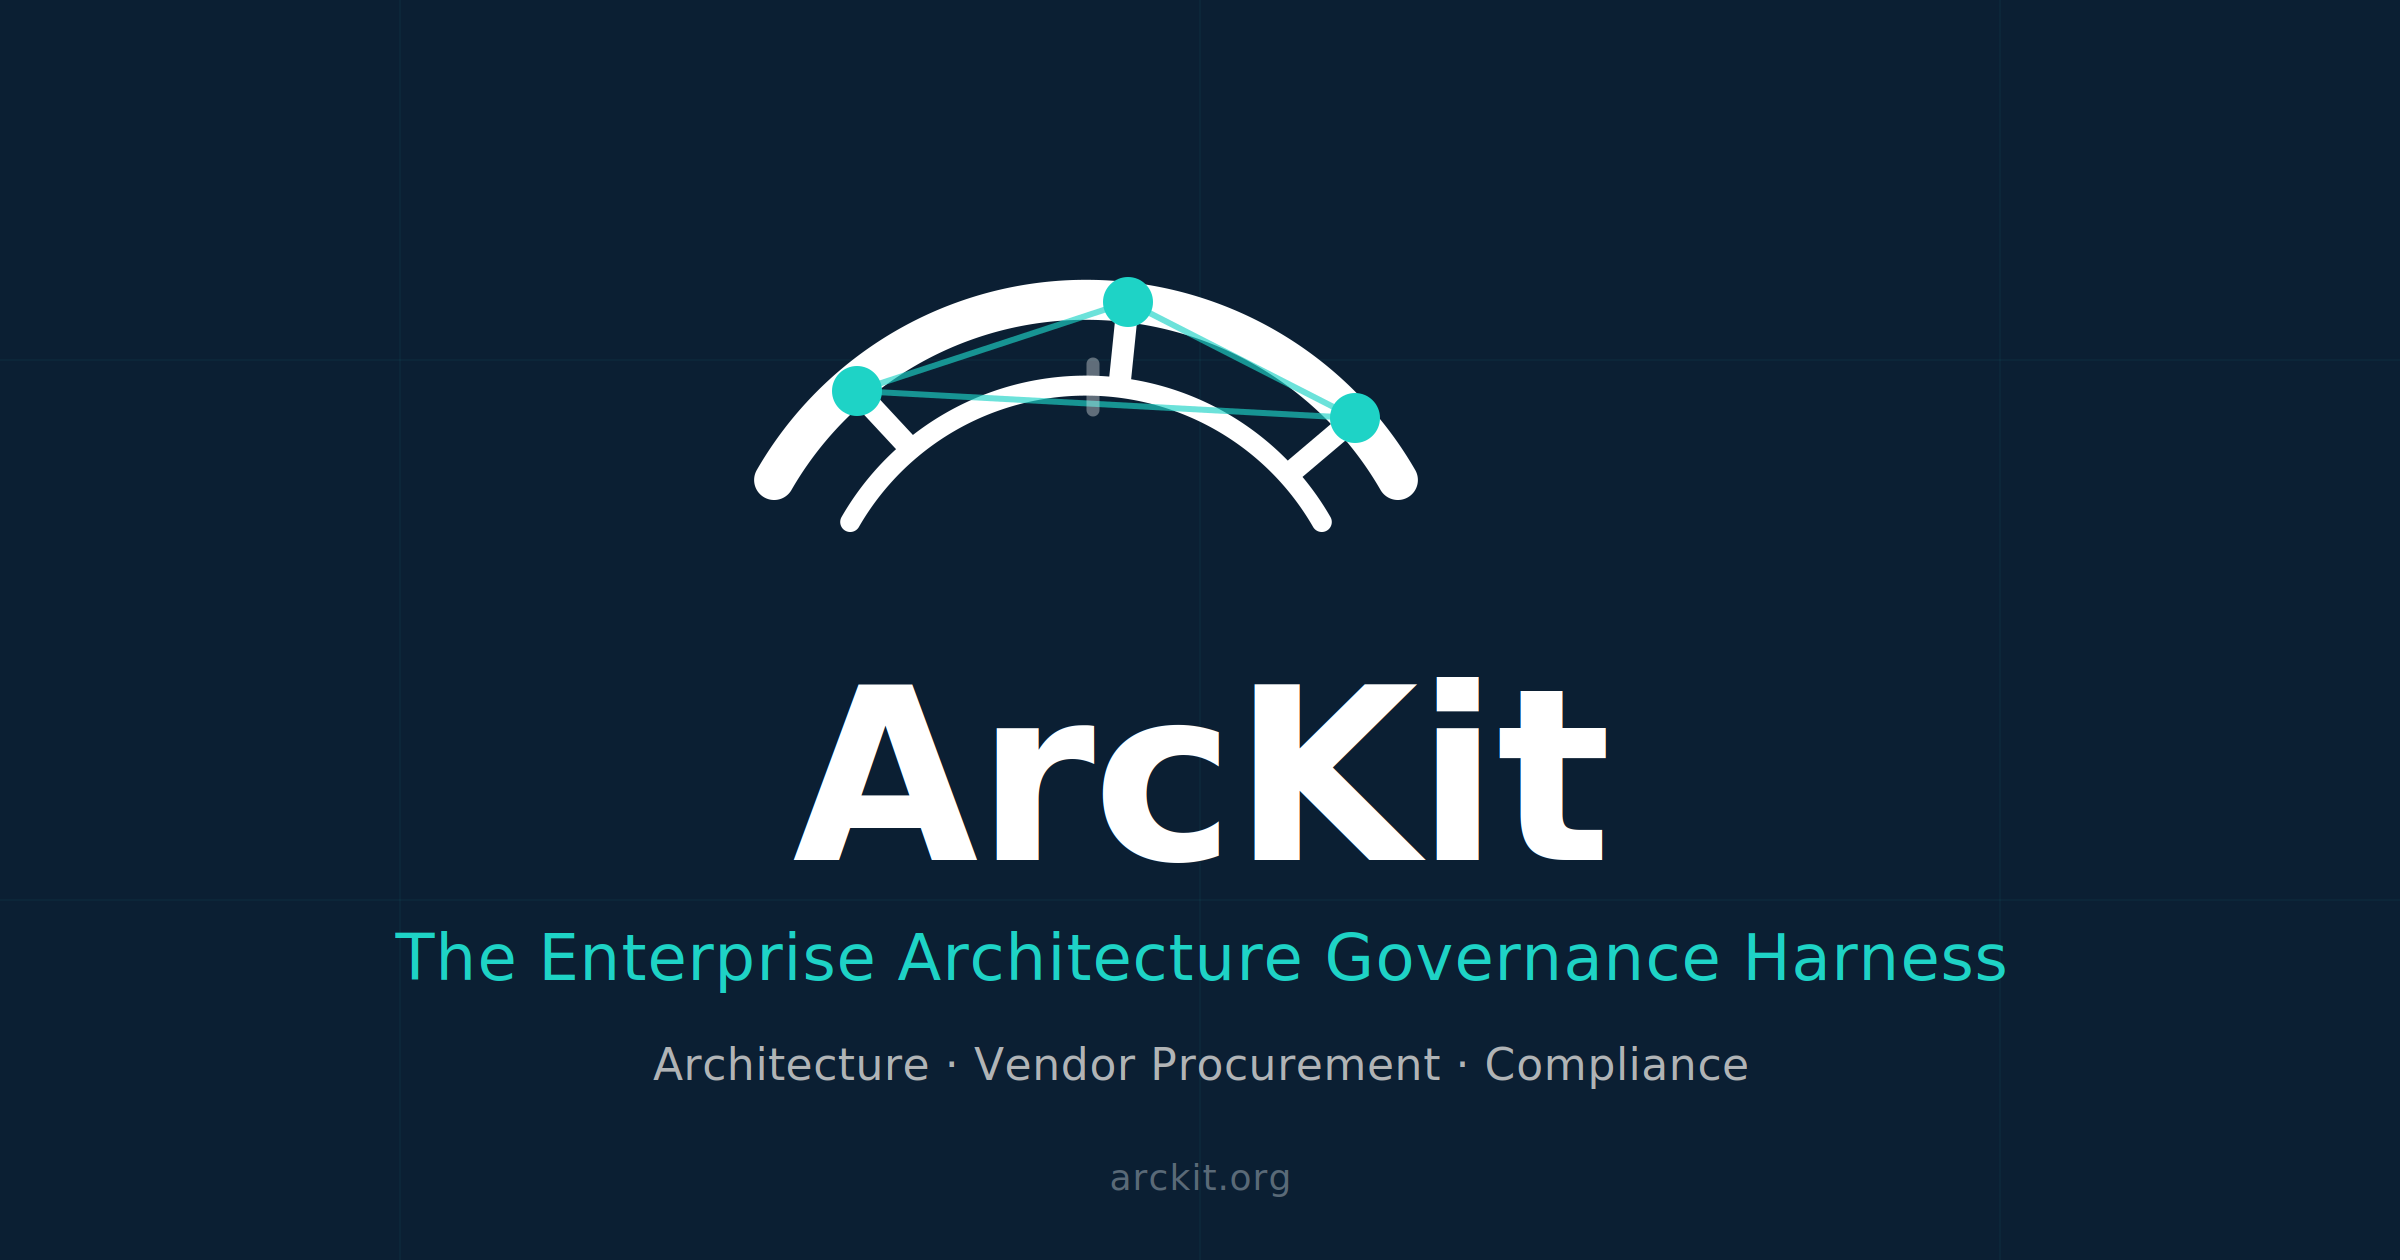
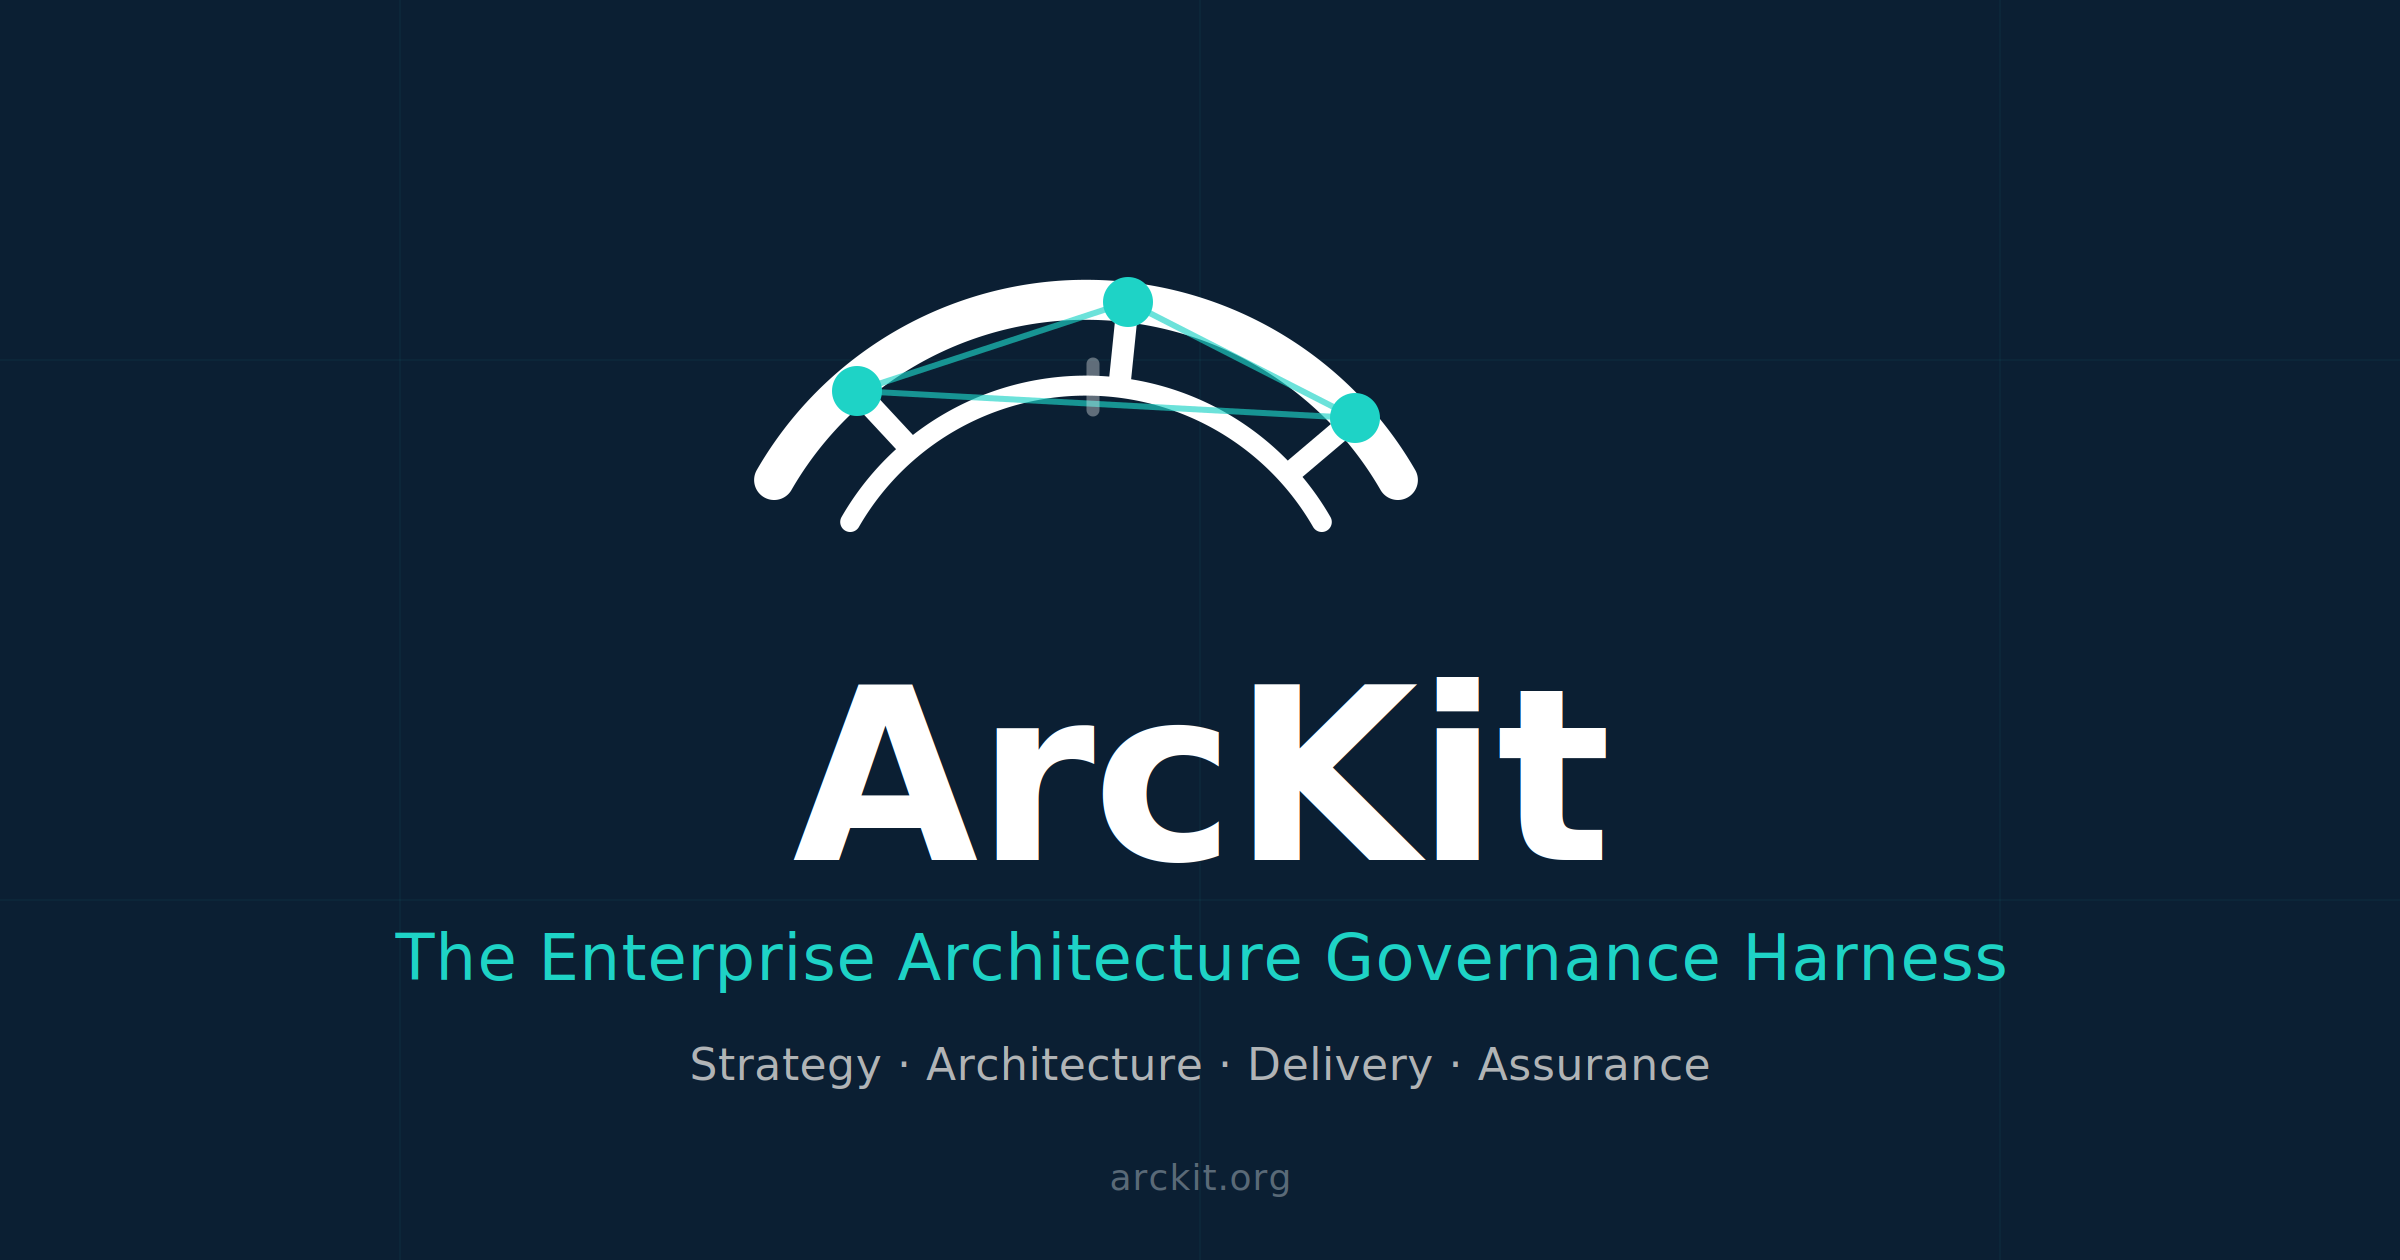
brand: shift category positioning to "Strategy · Architecture · Delivery · Assurance"
Replace the legacy "architecture, vendor procurement, and compliance"
category trio with the four-bucket positioning that better reflects the
71-command surface (see PR thread for analysis):

  - Strategy: principles, stakeholders, sobc, risk, roadmap, strategy,
    story, framework, glossary
  - Architecture: adr, diagram, dfd, hld/dld-review, wardley × 5,
    platform-design, data-model, backlog, servicenow
  - Delivery: devops, mlops, finops, operationalize, pages, presentation
  - Assurance: analyze, conformance, traceability, navigator, health,
    principles-compliance, tcop, secure, mod-secure, ai-playbook, atrs,
    jsp-936, dpia, service-assessment, graph-report, maturity-model

Procurement (sow, dos, evaluate, score, gcloud-*) is preserved as
functional content — the SOW command, plan-template Gantt phases,
procurement guide, and use-case index entry — but no longer leads the
positioning since it covers only ~6 commands.

Updated brand surfaces (28 files):

- Plugin/extension manifests: plugin.json, marketplace.json,
  gemini-extension.json, paperclip package.json + manifest.ts
- READMEs + headlines: root, arckit-claude, arckit-gemini (README + GEMINI.md),
  arckit-copilot, docs, CLAUDE.md
- Start guides: 6 copies (docs/, arckit-claude/, arckit-codex/,
  arckit-copilot/, arckit-opencode/, arckit-paperclip/)
- Web descriptions: docs/index.html (meta keywords, JSON-LD body,
  HowTo step), docs/llms.txt (headline only — workflow-coverage
[…]

Changed region(s): [[0.2812, 0.8357, 0.75, 0.8667]]

diff --git a/docs/index.html b/docs/index.html
@@ -5,7 +5,7 @@
     <script>(function(){var t=localStorage.getItem('arckit-theme');if(t==='dark')document.documentElement.classList.add('dark-mode');else if(t==='light')document.documentElement.classList.add('light-mode');else if(window.matchMedia&&window.matchMedia('(prefers-color-scheme: dark)').matches)document.documentElement.classList.add('dark-mode')})();</script>
     <meta name="viewport" content="width=device-width, initial-scale=1, viewport-fit=cover">
     <meta name="description" content="ArcKit - The Enterprise Architecture Governance Harness. AI-assisted commands covering a UK Government baseline plus community-contributed jurisdictional overlays (EU, France, Austria, Canada, UAE, Australia, USA).">
-    <meta name="keywords" content="enterprise architecture, UK government, EU, France, Austria, Canada, UAE, Australia, GDS, GDPR, AI Act, NIS2, ANSSI, PDPL, DISP, Essential Eight, architecture governance, vendor procurement, ArcKit, compliance, TCOP, secure by design">
+    <meta name="keywords" content="enterprise architecture, UK government, EU, France, Austria, Canada, UAE, Australia, GDS, GDPR, AI Act, NIS2, ANSSI, PDPL, DISP, Essential Eight, architecture governance, strategy, delivery, assurance, compliance, ArcKit, TCOP, secure by design">
     <meta name="author" content="ArcKit">
     <meta property="og:title" content="ArcKit - The Enterprise Architecture Governance Harness">
     <meta property="og:description" content="AI-assisted commands for systematic, compliant architecture governance — UK Government baseline plus community-contributed jurisdictional overlays (EU, France, Austria, Canada, UAE, Australia, USA).">
@@ -381,7 +381,7 @@
                 "applicationCategory": "DeveloperApplication",
                 "applicationSubCategory": "Enterprise Architecture Governance",
                 "operatingSystem": "macOS, Linux, Windows",
-                "description": "ArcKit is an open-source enterprise architecture governance harness covering architecture, vendor procurement, and compliance distributed as a plugin or extension for AI coding assistants — Claude Code, Gemini CLI, GitHub Copilot, OpenAI Codex CLI, and OpenCode CLI. It provides slash commands across an official UK Government baseline plus community-contributed jurisdictional overlays (EU, France, Austria, Canada, UAE, Australia, USA) that generate architecture artefacts using versioned templates with full traceability.",
+                "description": "ArcKit is The Enterprise Architecture Governance Harness — an open-source toolkit covering strategy, architecture, delivery, and assurance distributed as a plugin or extension for AI coding assistants — Claude Code, Gemini CLI, GitHub Copilot, OpenAI Codex CLI, and OpenCode CLI. It provides slash commands across an official UK Government baseline plus community-contributed jurisdictional overlays (EU, France, Austria, Canada, UAE, Australia, USA) that generate architecture artefacts using versioned templates with full traceability.",
                 "softwareVersion": "4.21.0",
                 "license": "https://github.com/tractorjuice/arc-kit/blob/main/LICENSE",
                 "codeRepository": "https://github.com/tractorjuice/arc-kit",
@@ -415,7 +415,7 @@
                         "name": "What is ArcKit?",
                         "acceptedAnswer": {
                             "@type": "Answer",
-                            "text": "ArcKit is an open-source enterprise architecture governance harness covering architecture, vendor procurement, and compliance. It provides AI-assisted slash commands across an official UK Government baseline plus community-contributed jurisdictional overlays (EU, France, Austria, Canada, UAE, Australia, USA) and sector overlays (UK Finance Payments, UK NHS Clinical Safety) that turn architecture governance from scattered documents into a systematic, template-driven workflow with full traceability from stakeholders through requirements to design and tests."
+                            "text": "ArcKit is The Enterprise Architecture Governance Harness — an open-source toolkit covering strategy, architecture, delivery, and assurance. It provides AI-assisted slash commands across an official UK Government baseline plus community-contributed jurisdictional overlays (EU, France, Austria, Canada, UAE, Australia, USA) and sector overlays (UK Finance Payments, UK NHS Clinical Safety) that turn architecture governance from scattered documents into a systematic, template-driven workflow with full traceability from stakeholders through requirements to design and tests."
                         }
                     },
                     {

diff --git a/arckit-paperclip/src/manifest.ts b/arckit-paperclip/src/manifest.ts
@@ -113,7 +113,7 @@ const manifest: PaperclipPluginManifestV1 = {
   version: pkg.version,
   displayName: "ArcKit",
   description:
-    "The Enterprise Architecture Governance Harness — 116 commands for architecture, vendor procurement, and compliance artifacts",
+    "The Enterprise Architecture Governance Harness — 116 commands across strategy, architecture, delivery, and assurance",
   author: "tractorjuice",
   categories: ["workspace", "automation"],
   capabilities: ["agent.tools.register"],

diff --git a/scripts/create-sdg-repo.py b/scripts/create-sdg-repo.py
@@ -500,7 +500,7 @@ This repository contains **{total_projects} UK Government technology projects** 
 
 ## ArcKit
 
-This repository is powered by [ArcKit](https://github.com/tractorjuice/arc-kit) -- The Enterprise Architecture Governance Harness, providing slash commands for AI coding assistants (architecture, vendor procurement, compliance).
+This repository is powered by [ArcKit](https://github.com/tractorjuice/arc-kit) -- The Enterprise Architecture Governance Harness, providing slash commands for AI coding assistants (strategy, architecture, delivery, assurance).
 
 **Version**: {VERSION}
 """

diff --git a/src/arckit_cli/__init__.py b/src/arckit_cli/__init__.py
@@ -719,7 +719,7 @@ Enterprise Architecture Governance Project
 
 ## Getting Started
 
-This project uses ArcKit for enterprise architecture governance and vendor procurement.
+This project uses ArcKit — The Enterprise Architecture Governance Harness — for strategy, architecture, delivery, and assurance.
 
 ### Available Commands
 

diff --git a/docs/BUSINESS-PLAN.md b/docs/BUSINESS-PLAN.md
@@ -11,7 +11,7 @@
 
 ## 1. Executive Summary
 
-ArcKit is an open-source AI-assisted toolkit for enterprise architecture governance and vendor procurement. In ~6.5 months it has reached 1,702 GitHub stars, 201 forks, 100+ releases, and 358+ pull requests, with reported usage across the UK Government and NHS. It distributes 68 slash commands, 10 autonomous research agents and 70+ templates across six AI assistant ecosystems (Claude Code, Codex CLI, Gemini CLI, OpenCode CLI, GitHub Copilot, plus a Python CLI), reaching architects wherever they already work.
+ArcKit is The Enterprise Architecture Governance Harness — an open-source, AI-assisted toolkit covering strategy, architecture, delivery, and assurance. In ~6.5 months it has reached 1,702 GitHub stars, 201 forks, 100+ releases, and 358+ pull requests, with reported usage across the UK Government and NHS. It distributes 68 slash commands, 10 autonomous research agents and 70+ templates across six AI assistant ecosystems (Claude Code, Codex CLI, Gemini CLI, OpenCode CLI, GitHub Copilot, plus a Python CLI), reaching architects wherever they already work.
 
 The commercial thesis is straightforward. ArcKit converts hours of architecture document drafting (requirements, business cases, risk registers, ADRs, Wardley Maps, RFP packs) into minutes of template-driven, audit-ready output that maps directly to HM Treasury Green/Orange Book, GDS Service Standard, NCSC CAF, the Technology Code of Practice, and G-Cloud/DOS procurement frameworks. The same workload is currently sold by Big 4 and tier-2 strategy houses at consulting margins. ArcKit makes that spend contestable.
 

diff --git a/docs/proposals/google-org-pitch.md b/docs/proposals/google-org-pitch.md
@@ -32,7 +32,7 @@ This is not just an efficiency problem. It is a structural barrier that determin
 
 ## ArcKit: What Becomes Possible
 
-**ArcKit** is The Enterprise Architecture Governance Harness — open-source, AI-powered, covering architecture, vendor procurement, and compliance — that does not merely speed up existing processes, it makes previously impossible governance achievable for every government team, regardless of size.
+**ArcKit** is The Enterprise Architecture Governance Harness — open-source, AI-powered, covering strategy, architecture, delivery, and assurance — that does not merely speed up existing processes, it makes previously impossible governance achievable for every government team, regardless of size.
 
 **The transformational shift**: A team of 2-3 architects can now produce governance of the same depth and quality that previously required a department of 20. For hundreds of smaller government agencies, this means comprehensive architecture governance for the first time — not faster governance, but governance that was previously out of reach.
 

diff --git a/CLAUDE.md b/CLAUDE.md
@@ -4,7 +4,7 @@ This file provides guidance to Claude Code (claude.ai/code) when working with co
 
 ## Overview
 
-ArcKit is **The Enterprise Architecture Governance Harness** — providing slash commands for AI coding assistants (Claude Code, Codex CLI, Gemini CLI, OpenCode CLI, GitHub Copilot) to generate architecture, vendor procurement, and compliance artifacts. It transforms architecture governance from scattered documents into a systematic, template-driven process.
+ArcKit is **The Enterprise Architecture Governance Harness** — providing slash commands for AI coding assistants (Claude Code, Codex CLI, Gemini CLI, OpenCode CLI, GitHub Copilot) to generate strategy, architecture, delivery, and assurance artifacts. It transforms architecture governance from scattered documents into a systematic, template-driven process.
 
 **Six distribution formats** exist side-by-side in this repo:
 

diff --git a/.claude/skills/new-command-docs/SKILL.md b/.claude/skills/new-command-docs/SKILL.md
@@ -64,7 +64,7 @@ Count locations (search for the old number):
 Update the `description` field count:
 
 ```json
-"description": "The Enterprise Architecture Governance Harness - {N} slash commands for architecture, vendor procurement, and compliance artifacts"
+"description": "The Enterprise Architecture Governance Harness - {N} slash commands across strategy, architecture, delivery, and assurance"
 ```
 
 ### 4. .claude-plugin/marketplace.json (root)
@@ -72,7 +72,7 @@ Update the `description` field count:
 Update the `description` field count:
 
 ```json
-"description": "{N} slash commands for enterprise architecture artifacts, vendor procurement, and UK Government compliance"
+"description": "{N} slash commands across strategy, architecture, delivery, and assurance — including UK Government compliance"
 ```
 
 ### 5. arckit-claude/README.md

diff --git a/docs/articles/2026-03-23-government-code-discovery-commands.md b/docs/articles/2026-03-23-government-code-discovery-commands.md
@@ -252,7 +252,7 @@ For strategic landscape mapping, run `/arckit:gov-landscape` with a domain descr
 
 ---
 
-*ArcKit is the open-source Enterprise Architecture Governance Harness, providing slash commands for AI coding assistants (architecture, vendor procurement, compliance). For more information, visit the [GitHub repository](https://github.com/tractorjuice/arc-kit).*
+*ArcKit is the open-source Enterprise Architecture Governance Harness, providing slash commands for AI coding assistants (strategy, architecture, delivery, assurance). For more information, visit the [GitHub repository](https://github.com/tractorjuice/arc-kit).*
 
 <!-- arckit:related-articles -->
 ## Related Articles

diff --git a/arckit-gemini/GEMINI.md b/arckit-gemini/GEMINI.md
@@ -1,6 +1,6 @@
 # ArcKit - Gemini Extension Context
 
-ArcKit is **The Enterprise Architecture Governance Harness**, providing 70 slash commands for generating architecture artifacts (governance, vendor procurement, compliance). It transforms architecture governance from scattered documents into a systematic, template-driven process.
+ArcKit is **The Enterprise Architecture Governance Harness**, providing 70 slash commands across strategy, architecture, delivery, and assurance. It transforms architecture governance from scattered documents into a systematic, template-driven process.
 
 ## Extension File Locations
 

diff --git a/README.md b/README.md
@@ -9,7 +9,7 @@
 
 ![ArcKit: The Enterprise Architecture Governance Harness](docs/assets/arckit-banner-light.svg)
 
-**Build better enterprise architecture through structured governance, vendor procurement, and design review workflows.**
+**Build better enterprise architecture through structured strategy, design, delivery, and assurance workflows.**
 
 ArcKit is a toolkit for enterprise architects that transforms architecture governance from scattered documents into a systematic, AI-assisted workflow for:
 

diff --git a/arckit-claude/docs/guides/start.md b/arckit-claude/docs/guides/start.md
@@ -138,8 +138,8 @@ Output: Console only (no file created). This is a navigation aid, not a governan
 ArcKit — The Enterprise Architecture Governance Harness
 Version 4.7.1 | 70 commands | Plugin mode
 
-Your AI-powered assistant for architecture governance, vendor procurement,
-and compliance — all driven by templates and traceability.
+Your AI-powered harness for strategy, architecture, delivery, and assurance
+— all driven by templates and traceability.
 
 Projects
 --------
